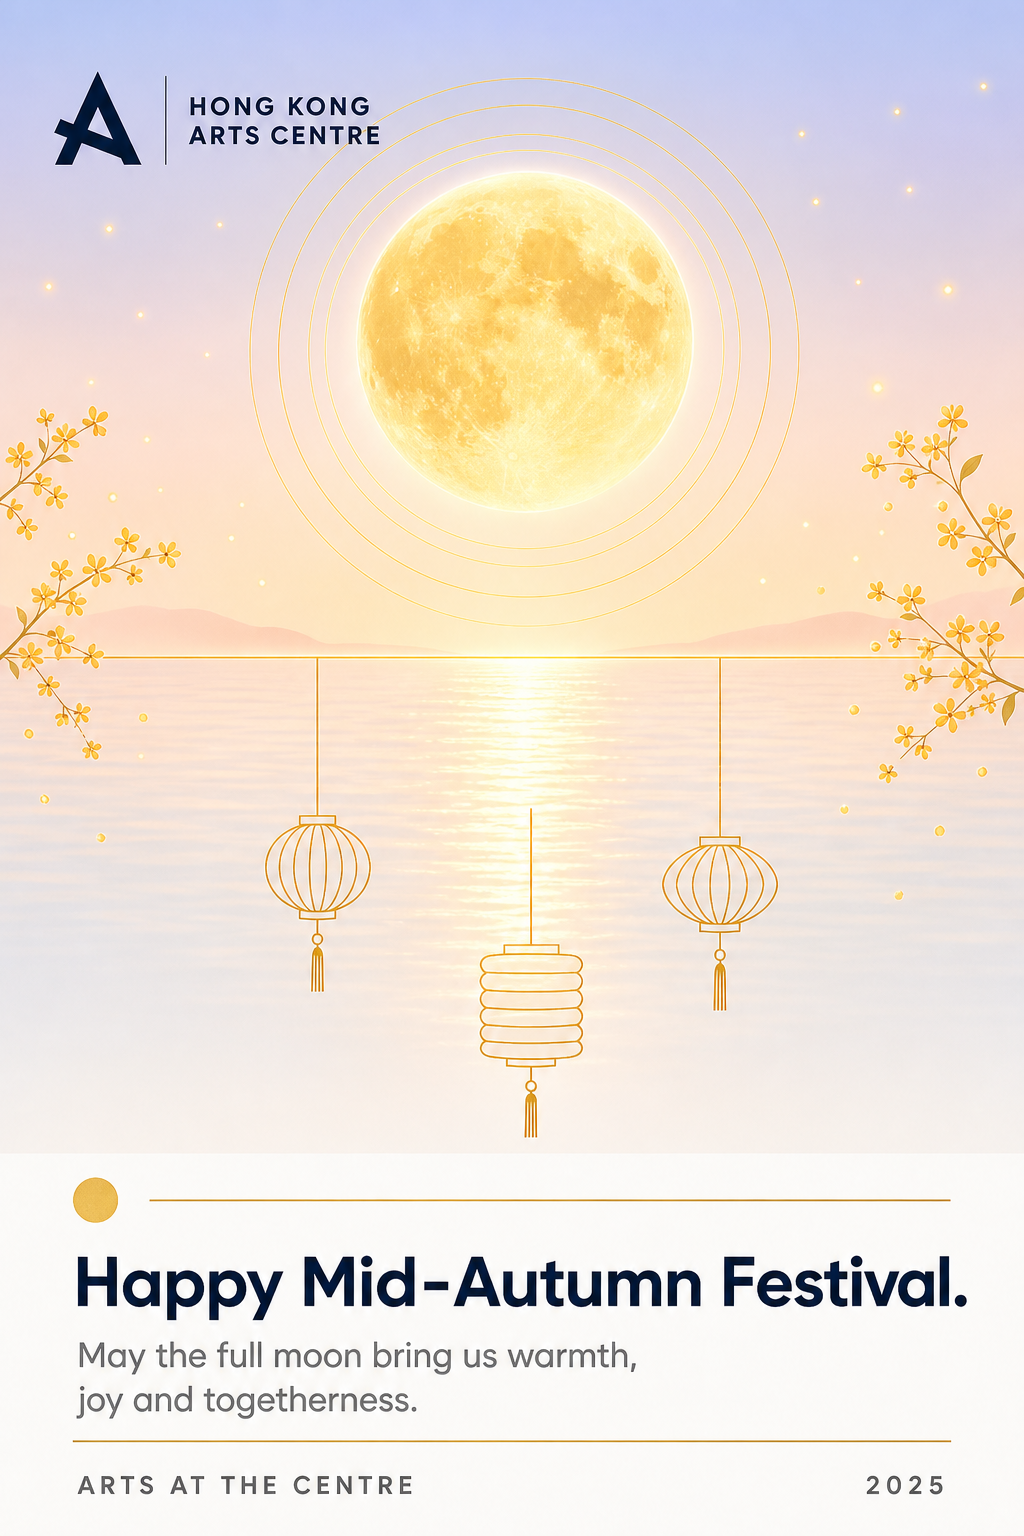
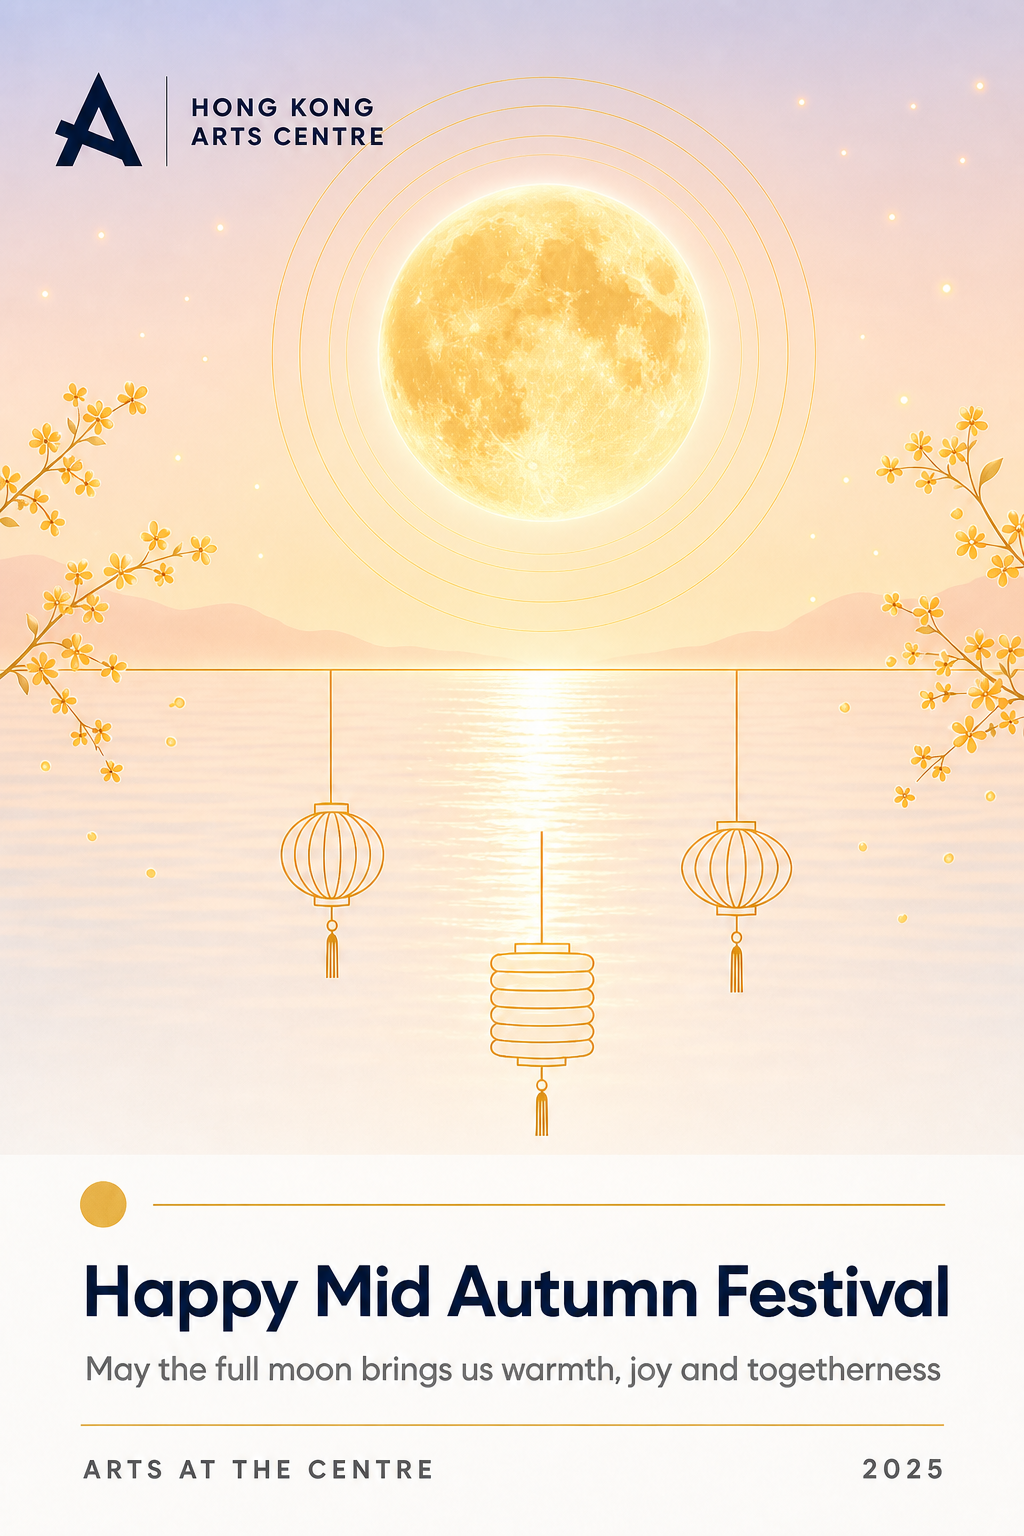
Update greeting lines to user-specified copy
Line 1: Happy Mid Autumn Festival
Line 2: May the full moon brings us warmth, joy and togetherness

diff --git a/hkac-mid-autumn-greeting-card.html b/hkac-mid-autumn-greeting-card.html
@@ -384,9 +384,9 @@
             <div class="motif-icon"></div>
             <div class="divider"></div>
           </div>
-          <h1 class="headline">Happy Mid-Autumn Festival.</h1>
+          <h1 class="headline">Happy Mid Autumn Festival</h1>
           <p class="subline">
-            May the full moon bring us warmth, joy and togetherness.
+            May the full moon brings us warmth, joy and togetherness
           </p>
         </div>
 
